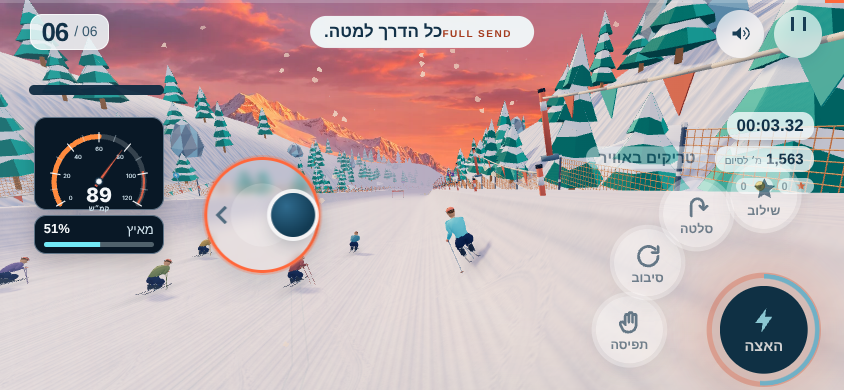
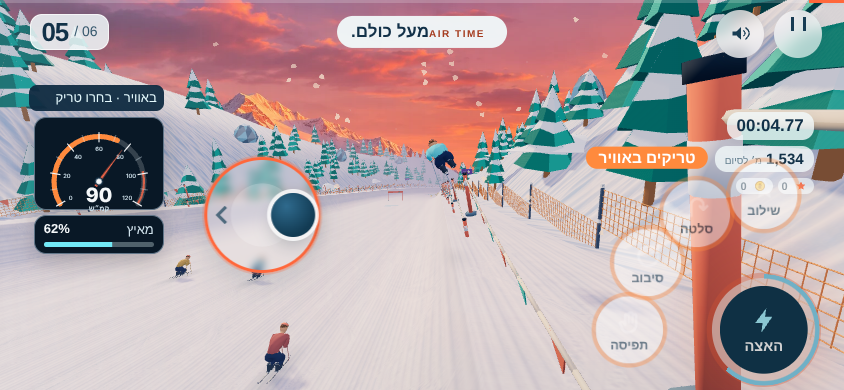
Soccer look v10: close the sky gaps (surround), restore tier 0 via distance LOD, warmer lighting, turf stripes, bolder lines, flood halos
Claude-Session: https://claude.ai/code/session_018LH5qUP9Z18MszWduoZbP1

diff --git a/workout/island/verification/soccer-look-v10/characters-compare.html b/workout/island/verification/soccer-look-v10/characters-compare.html
@@ -1,0 +1,59 @@
+<!doctype html>
+<html dir="rtl" lang="he">
+<head>
+<meta charset="utf-8">
+<meta name="viewport" content="width=device-width,initial-scale=1">
+<title>כדורגל: השוואת שחקנים לאורך הזמן</title>
+<style>
+body{direction:rtl;text-align:right;unicode-bidi:embed;font-family:system-ui,sans-serif;background:#0f1d24;color:#eaf2f0;margin:0;padding:16px;line-height:1.5}
+h1{font-size:22px;margin:0 0 4px}h2{font-size:17px;margin:22px 0 6px}
+.ltr{direction:ltr;display:inline-block}
+table{border-collapse:collapse;margin:8px 0 14px}th,td{border:1px solid #2c4650;padding:5px 9px;font-size:14px;text-align:right}th{background:#16303a}
+.grid{display:grid;grid-template-columns:repeat(auto-fit,minmax(380px,1fr));gap:10px}
+figure{margin:0;background:#16303a;border-radius:8px;overflow:hidden}figure img{width:100%;display:block}figcaption{padding:6px 10px;font-size:13px}
+.note{background:#16303a;border-right:4px solid #b8f65b;padding:8px 12px;border-radius:6px;font-size:14px}
+</style>
+</head>
+<body>
+<h1>כדורגל: אותו שחקן, אותה תאורה, אותה מצלמה (<span class="ltr">844×390</span>)</h1>
+<p>כל הצילומים מאותו רגע פתיחה של משחק ליגה, שש מול שש. שתי שורות לכל ערכה: <b>רמה 0</b> (צללים, רזולוציה מלאה, קהל מלא, שחקנים קרובים מפורטים) ו<b>רמה 2</b> (מה שהמשחק עבר אליו אוטומטית אחרי חריגה מתקציב המשולשים: בלי צללים, רזולוציה .85, קהל שליש, רשת קלה).</p>
+<div class="note">המסקנה: ההבדל שרועי ראה אינו ברשת הדמות. מאז הרחבה לשש מול שש הסצנה חרגה מהתקציב כבר בשנייה הראשונה, והמשחק ירד לרמה 2 גם בטלפון חזק. חזרנו לרמה 0 בעזרת רמת פירוט לפי מרחק. פירוט ב-<span class="ltr">REPORT.md</span>.</div>
+
+<h2>מה כל ערכה</h2>
+<table>
+<tr><th>ערכה</th><th>מתי</th><th>משולשים לשחקן</th><th>סה״כ בסצנה ברמה 0 (12 שחקנים, בלי LOD)</th><th>קריאות ציור</th></tr>
+<tr><td><span class="ltr">kid</span> איור (kid-full.glb)</td><td>26/10</td><td>15,012</td><td>216K</td><td>97 (מעל התקרה 90)</td></tr>
+<tr><td><span class="ltr">athlete</span> ריאליסטי (MakeHuman)</td><td>29/10</td><td>11,614 (קל 5,336)</td><td>175K</td><td>49</td></tr>
+<tr><td><span class="ltr">v4</span> (characters2)</td><td>31/10</td><td>26,109</td><td>349K</td><td>37</td></tr>
+<tr><td><span class="ltr">v5</span> (GPT, מצויר) ברירת מחדל היום</td><td>04/11</td><td>13,054 (קל 3,344)</td><td>192K</td><td>37</td></tr>
+</table>
+<p>תקרת המשחק: 130K משולשים לכל הסצנה (אצטדיון וקהל כ-36K).</p>
+
+<h2>רמה 0 (הרמה הטובה): רחוק וקרוב</h2>
+<div class="grid">
+<figure><img src="chars-kid-t0-far.webp" alt=""><figcaption><span class="ltr">kid</span> רחוק</figcaption></figure>
+<figure><img src="chars-athlete-t0-far.webp" alt=""><figcaption><span class="ltr">athlete</span> רחוק</figcaption></figure>
+<figure><img src="chars-v4-t0-far.webp" alt=""><figcaption><span class="ltr">v4</span> רחוק</figcaption></figure>
+<figure><img src="chars-v5-t0-far.webp" alt=""><figcaption><span class="ltr">v5</span> רחוק</figcaption></figure>
+<figure><img src="chars-kid-t0-close.webp" alt=""><figcaption><span class="ltr">kid</span> קרוב</figcaption></figure>
+<figure><img src="chars-athlete-t0-close.webp" alt=""><figcaption><span class="ltr">athlete</span> קרוב</figcaption></figure>
+<figure><img src="chars-v4-t0-close.webp" alt=""><figcaption><span class="ltr">v4</span> קרוב</figcaption></figure>
+<figure><img src="chars-v5-t0-close.webp" alt=""><figcaption><span class="ltr">v5</span> קרוב</figcaption></figure>
+</div>
+
+<h2>רמה 2 (מה שהמשחק הציג אחרי החריגה מהתקציב)</h2>
+<div class="grid">
+<figure><img src="chars-kid-t2-far.webp" alt=""><figcaption><span class="ltr">kid</span> רחוק</figcaption></figure>
+<figure><img src="chars-athlete-t2-far.webp" alt=""><figcaption><span class="ltr">athlete</span> רחוק</figcaption></figure>
+<figure><img src="chars-v4-t2-far.webp" alt=""><figcaption><span class="ltr">v4</span> רחוק</figcaption></figure>
+<figure><img src="chars-v5-t2-far.webp" alt=""><figcaption><span class="ltr">v5</span> רחוק</figcaption></figure>
+<figure><img src="chars-kid-t2-close.webp" alt=""><figcaption><span class="ltr">kid</span> קרוב</figcaption></figure>
+<figure><img src="chars-athlete-t2-close.webp" alt=""><figcaption><span class="ltr">athlete</span> קרוב</figcaption></figure>
+<figure><img src="chars-v4-t2-close.webp" alt=""><figcaption><span class="ltr">v4</span> קרוב</figcaption></figure>
+<figure><img src="chars-v5-t2-close.webp" alt=""><figcaption><span class="ltr">v5</span> קרוב</figcaption></figure>
+</div>
+
+<h2>להפעלה בטלפון</h2>
+<p>הוסיפו לכתובת המשחק: <span class="ltr">?soccerChars=kid|athlete|v4|v5</span> לבחירת ערכה, ו<span class="ltr">?soccerTier=0|2</span> לקיבוע רמה.</p>
+</body>
+</html>

diff --git a/workout/island/verification/soccer-look-v10/REPORT.md b/workout/island/verification/soccer-look-v10/REPORT.md
@@ -1,0 +1,63 @@
+# כדורגל מראה v10 · דוח
+
+תאריך: 04/11/2026 · ענף `claude/soccer-look-v10` (מ-`main`). לא נגעתי ב-`release.json`, `release.mjs` ובתגי `?v=`. לא לוגיקת מסירות/AI.
+
+## א. שמיים
+
+**סיבה:** האצטדיון המעוצב משמיט בכוונה את היציע בצד המצלמה (כדי לא להסתיר שחקנים), ואין בו כיסוי לפינות. כל פיקסל שלא מכוסה הראה את תמונת הרקע של השמיים: בטלפון לאורך בתחתית הפריים, בפינות ובקצוות בלנדסקייפ. המצלמה עצמה לא רואה אופק (הקרן העליונה 7° מתחת לאופק).
+
+**תיקון:** `minigames/soccer-surround.mjs` (3,862 משולשים, 6 קריאות ציור): קרקע עד האופק, מגרש ריצה, יציע מדורג בצד המצלמה (שיפוע .35 מול טנגנס 28° = .53, לכן לא מסתיר שחקן בקו הצד; מתהפך עם המצלמה), כנפי פינה, קו רקיע של בניינים ועצים שהערפל מרכך. צבע הערפל והרקע הוחשך מכחלחל-בהיר לאפור-ירוק.
+
+| בדיקה | תוצאה |
+|---|---|
+| בדיקת פיקסלים: רקע מגנטה, 5 נקודות (פינה, פינה, קצה שער, קו צד, מרכז) × 2 כיוונים | 0% מגנטה בכולן |
+| בקרת שלילה (בלי ה-surround) | מגנטה נמצאת, כלומר הבדיקה יכולה להיכשל |
+
+צילומים לפני/אחרי (שמאל לפני, ימין אחרי): `sky-*-before-after.webp` (4 זוויות × 2 כיוונים). הערה: צילומי ה"אחרי" נלקחו לפני החשכת הערפל.
+
+## ב. הנסיגה בדמויות
+
+ההיסטוריה בריפו רדודה (364 קומיטים). נמצאו ארבע ערכות בכדורגל לאורך הזמן: `kid` (26/10, איור), `athlete` (29/10, MakeHuman ריאליסטי), `v4` (31/10), `v5` (04/11, ברירת מחדל). דף השוואה: `characters-compare.html`.
+
+**הסיבה לירידה אינה רשת הדמות.** מאז ההרחבה לשש מול שש (31/10) הסצנה חורגת מתקרת 130K משולשים כבר ברמה 0, והמשחק יורד לבד לרמה 2-3 בכל מכשיר:
+
+| ערכה | סה״כ משולשים ברמה 0, 12 שחקנים, בלי LOD | קריאות ציור | תקרה |
+|---|---:|---:|---|
+| `kid` | 216K | 97 | חורג |
+| `athlete` | 175K | 49 | חורג |
+| `v4` | 349K | 37 | חורג |
+| `v5` | 192K | 37 | חורג |
+
+בירידה לרמה 2: אין צללים, רזולוציה ×0.85, קהל שליש, רשת קלה לכל השחקנים. זה מה שנראה כ"ירידה ברמה". בהשוואה ברמה 0 הערכות שוות בערך באיכות; `v5` נקי ובעל פנים ושיער, `athlete` ריאליסטי יותר, `kid` הכי אופייני.
+
+**תיקון:** רמת פירוט לפי מרחק (`nearDetailPlayers`, `view.nearDetailPlayers=3`): שלושת השחקנים הקרובים למוקד המצלמה (ועוד השחקן הנשלט ומי שבפעולה) בפירוט מלא, השאר קל; ליד הגבול יש היסטרזיס נגד הבהוב. הבחירה נשארת `v5` (אותה איכות ברמה 0, הכי זול), הדגל להחלפה: `?soccerChars=kid|athlete|v4|v5`; `?soccerTier=0..3` מקבע רמה להשוואה.
+
+| מדד (Chromium + SwiftShader, יחסי בלבד) | לפני | אחרי |
+|---|---|---|
+| רמה סופית בברירת מחדל | 3 (ירדה מיד) | 0 (מוחזקת כשהמכשיר מספיק מהיר) |
+| משולשים ברמה 0, `v5` | 192K | 105K (עד 134K בבדיקה לפני הקטנה מ-4 ל-3 שחקנים מפורטים) |
+| `athlete` ברמה 0 עם LOD | 175K | 125K |
+| `v4` ברמה 0 | 349K | 173K (עדיין חורג, לא ברירת מחדל) |
+| קריאות ציור | 30 (רמה 3) | 40-42 |
+| GL ממוצע, רמה 0 מקובע | | 24.8 ms ב-SwiftShader (תוכנה, לא מייצג טלפון) |
+
+**סיכון פתוח:** SwiftShader לא מנבא טלפון. מכשיר חלש ימשיך לרדת לפי זמן פריים (25 ms ב-2 שניות), וזה מכוון. נדרשת בדיקה בטלפון.
+
+## ג. שיפורי גרפיקה
+
+| שיפור | איפה |
+|---|---|
+| שמש אחר צהריים חמה (#ffe6bd, זווית נמוכה יותר), צללים רכים יותר (radius 3), מילוי קר | `soccer-lighting.mjs` |
+| פסי כיסוח בדשא המעוצב (שלוש וחצי מטר) וגוון דשא עשיר יותר | `soccer-design-scene.mjs` |
+| קווי מגרש .12 במקום .08, בהירים יותר עם זוהר קל | `soccer-view.mjs` |
+| הילות זרקורים (4 ספרייטים תוספתיים בפינות) | `soccer-surround.mjs` |
+| כדור עם חומר מבריק יותר (roughness .48) | `soccer-design-scene.mjs` |
+
+## בדיקות
+
+- חדש: `tests/island-soccer-look-v10.test.mjs` (4 בדיקות: LOD לפי מרחק, שיפוע היציע, גודל ורישום offline של ה-surround, בדיקת שמיים בדפדפן ותקציב). עובר.
+- `offline-manifest.json` עודכן ב-`tools/offline-shell.mjs` (שורה אחת).
+- הרצה מלאה (`ISLAND_CSP_BROWSER=1 ISLAND_SOCCER_BROWSER=1`): בזמן הדחיפה ההרצה המלאה עוד רצה (ללא כשלונות עד אז); אם יתגלה כשל יתועד בקומיט המשך.
+
+## לא נבדק
+טלפון פיזי; זיכרון GPU בטלפון חלש; הצללים והתאורה על מכשיר אמיתי.

diff --git a/ops/CONTROL.md b/ops/CONTROL.md
@@ -29,6 +29,7 @@
 | האי: כדורסל נכסי v5 (GPT) | ענף `claude/hoops-v5-connect` (04/11): אולם, פרקט, קהל מונפש (2,762), לוח תוצאות, סלים וכדור חוברו; נפילה v5 → v4 → v3; בקר LOD לקהל. מדים 07/23 לא חוברו (מספר קבוע). `npm test` עובר (3,207, 0 נכשלו). +0.84 MB בטעינה קרה. דוח: `workout/island/verification/hoops-v5-integration/REPORT.md` | בדיקת טלפון (30 fps, תחושה) + PR ומיזוג | רועי + Claude |
 | האי: סקי | נכסי Codex (`skier3`, `alpine-world`) חוברו בענף `claude/ski-assets-v5` (02/11), npm test עובר. סיכון: 24.9K משולשים לסקיאר (היה 1.9K) | בדיקת טלפון + החלטה על הקלת רכיבים/יריבים; אחר כך PR ומיזוג | רועי + Claude |
 | האי: כדורגל v5 (GPT, מצויר) | ענף `claude/soccer-v5-connect` (04/11): חובר שחקני שדה (3 תסרוקות) ושוער, חצי משולשים (26K → 12.5K) ו-45KB לקובץ במקום 450KB; נפילה שקטה ל-v4; דגל `?soccerChars=v4`. אצטדיון ערב וקהל לא חוברו (קהל 170K משולשים). דוח: `workout/island/verification/soccer-v5-integration/REPORT.md` | בדיקת טלפון (שיפור מתון בעין, ברור בעלות); החלטה אם לחבר אצטדיון ערב | רועי + Claude |
+| האי: כדורגל מראה v10 (04/11) | ענף `claude/soccer-look-v10`: שמיים בשולי המסך נסגרו (surround: קרקע, יציע בצד המצלמה, פינות, קו רקיע; בדיקת פיקסלים 0%). "ירידת הרמה": הסצנה חרגה מ-130K משולשים מאז שש מול שש והמשחק ירד לרמה 2-3 בכל מכשיר; נוסף LOD לפי מרחק (v5, 192K → 105K ברמה 0). שמש חמה, פסי דשא, קווים, הילות. דוח: `workout/island/verification/soccer-look-v10/REPORT.md` | בדיקת טלפון (האם רמה 0 מחזיקה; מראה) + PR | רועי + Claude |
 | האי: כדורגל נכסי v4 (GPT) | ענף `claude/soccer-assets-v7`: חובר רק הדשא (-722KB, נפילה ל-1k). שחקן/שוער זהים לקיימים (26K משולשים), אצטדיון/קהל כבדים (119K) ולא חוברו. דוח: `workout/island/verification/soccer-v4-integration/REPORT.md` | בדיקת טלפון + החלטה אם לבנות LOD לקהל | Claude |
 | האי: סקי v5 + ערכת ממשק v2 (Codex) | ענף `claude/ski-uikit-v8` (04/11): שלוש סביבות הר לפי שלב (שלב 1 שקיעה, 2 ערפל, 3 לילה עם זרקורים; `visual.environment` ב-`data/config.json`, `?env=off` לכיבוי), גדרות/סמנים/דקלים/אפקטי אבקה ונחיתה/זרקורים; ערכת הממשק בתפריט האי, כרטיסי פתיחה, מפת שלבים ומסך תוצאה. נפילה שקטה לכל נכס. דוח ומספרים: `workout/island/verification/alpine-v5-uikit/REPORT.md` | בדיקת טלפון (ביצועים בלילה, קריאות המכשולים בערפל, מסך תוצאה) ואז PR | רועי + Claude |
 | האי: כדורגל שליטה ותגובה (04/11) | ענף `claude/ctrl-soccer`: ג'ויסטיק שמאל תמיד (המתג הוסר, ערך שמור מתעלמים), ג'ויסטיק צף ברפידה שמאלית, אזור מת 6% + expo, תאוצה/האטה מהירות לשחקן הנשלט, הקשה בסוף cooldown נשמרת. מגע עד תנועה נראית 33-37ms (היה 39-41), עצירה 167ms (היה 267). דוח: `workout/island/verification/ctrl-soccer/REPORT.md` | בדיקת טלפון (גודל הרפידה, תחושה, רטט), אחר כך PR | רועי + Claude |
